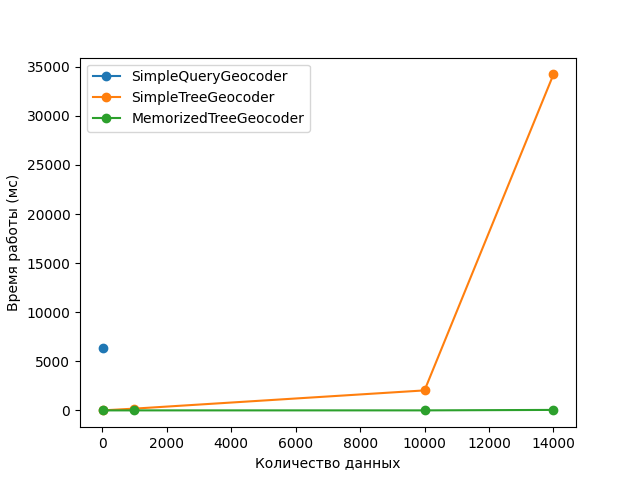
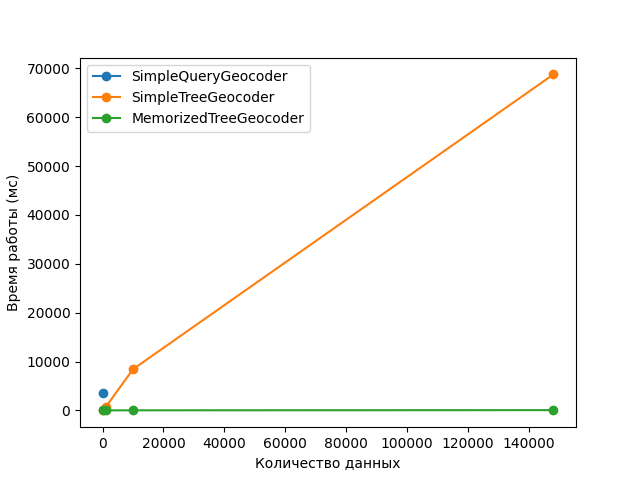
Исправлен отчет с учетом улучшенного алгоритма SimpleTreeGeocoder && старый отчет и алгоритм перенесены в depricated

diff --git a/depricated/geocoders/simple_tree_geocoder.py b/depricated/geocoders/simple_tree_geocoder.py
@@ -1,0 +1,39 @@
+from api import API, TreeNode
+from geocoders.geocoder import Geocoder
+
+
+class SimpleTreeGeocoder(Geocoder):
+    def __init__(self, samples: int | None = None, data: list[TreeNode] | None = None):
+        super().__init__(samples=samples)
+        if data is None:
+            self.__data = API.get_areas()
+        else:
+            self.__data = data
+
+    def _apply_geocoding(self, area_id: str) -> str:
+        result = None
+        for country in self.__data:
+            if result is None:
+                result = self.bfs(country, str(area_id))
+        return ", ".join([node.name for node in result][::-1])
+
+    # Перебор дерева в ширину
+    def bfs(self, tree, area_id: str) -> list[TreeNode] | None:
+        result = []
+
+        if tree.id == area_id:
+            result.append(tree)
+            return result
+
+        for child in tree.areas:
+            if child.id == area_id:
+                result.append(child)
+                result.append(tree)
+                return result
+            if len(child.areas) != 0:
+                return_res = self.bfs(child, area_id)
+                if return_res is not None:
+                    result.extend(return_res)
+                    result.append(tree)
+                    return result
+        return None

diff --git a/depricated/Отчет/Отчет.md b/depricated/Отчет/Отчет.md
@@ -2,90 +2,88 @@
 
 ### Полученные данные о производительности алгоритмов:
 #### 1 запуск
-| Алгоритм              | Количество данных | Время работы (мс) |
-|-----------------------|-------------------|-------------------|
-| SimpleQueryGeocoder   | 10                | 3980.00           |
-| SimpleTreeGeocoder    | 10                | 44.83             |
-| SimpleTreeGeocoder    | 1000              | 645.44            |
-| SimpleTreeGeocoder    | 10000             | 8980.00           |
-| SimpleTreeGeocoder    | 148000            | 61010.00          |
-| MemorizedTreeGeocoder | 10                | 22.36             |
-| MemorizedTreeGeocoder | 1000              | 17.51             |
-| MemorizedTreeGeocoder | 10000             | 20.71             |
-| MemorizedTreeGeocoder | 148000            | 48.68             |
-
+| #  | Алгоритм              | Количество данных | Время работы (мс) |
+|----|-----------------------|-------------------|-------------------|
+| 0  | SimpleQueryGeocoder   | 10                | 7500.00           |
+| 1  | SimpleTreeGeocoder    | 10                | 4.30              |
+| 2  | SimpleTreeGeocoder    | 1000              | 208.56            |
+| 3  | SimpleTreeGeocoder    | 10000             | 2150.00           |
+| 4  | SimpleTreeGeocoder    | 148000            | 32520.00          |
+| 5  | MemorizedTreeGeocoder | 10                | 4.00              |
+| 6  | MemorizedTreeGeocoder | 1000              | 2.99              |
+| 7  | MemorizedTreeGeocoder | 10000             | 6.56              |
+| 8  | MemorizedTreeGeocoder | 148000            | 52.45             |
 ![график_1.png](график_1.png)
 #### 2 запуск
-| Алгоритм              | Количество данных | Время работы (мс) |
-|-----------------------|-------------------|-------------------|
-| SimpleQueryGeocoder   | 10                | 3560.00           |
-| SimpleTreeGeocoder    | 10                | 17.00             |
-| SimpleTreeGeocoder    | 1000              | 657.72            |
-| SimpleTreeGeocoder    | 10000             | 8430.00           |
-| SimpleTreeGeocoder    | 148000            | 68740.00          |
-| MemorizedTreeGeocoder | 10                | 11.92             |
-| MemorizedTreeGeocoder | 1000              | 14.55             |
-| MemorizedTreeGeocoder | 10000             | 28.47             |
-| MemorizedTreeGeocoder | 148000            | 67.24             |
-
+| #  | Алгоритм              | Количество данных | Время работы (мс) |
+|----|-----------------------|-------------------|-------------------|
+| 0  | SimpleQueryGeocoder   | 10                | 6350.00           |
+| 1  | SimpleTreeGeocoder    | 10                | 4.97              |
+| 2  | SimpleTreeGeocoder    | 1000              | 184.62            |
+| 3  | SimpleTreeGeocoder    | 10000             | 2040.00           |
+| 4  | SimpleTreeGeocoder    | 148000            | 34220.00          |
+| 5  | MemorizedTreeGeocoder | 10                | 3.26              |
+| 6  | MemorizedTreeGeocoder | 1000              | 5.00              |
+| 7  | MemorizedTreeGeocoder | 10000             | 5.58              |
+| 8  | MemorizedTreeGeocoder | 148000            | 52.33             |
 ![график_2.png](график_2.png)
 #### 3 запуск
-| Алгоритм              | Количество данных | Время работы (мс) |
-|-----------------------|-------------------|-------------------|
-| SimpleQueryGeocoder   | 10                | 3420.00           |
-| SimpleTreeGeocoder    | 10                | 6.59              |
-| SimpleTreeGeocoder    | 1000              | 320.60            |
-| SimpleTreeGeocoder    | 10000             | 2730.00           |
-| SimpleTreeGeocoder    | 148000            | 41200.00          |
-| MemorizedTreeGeocoder | 10                | 6.52              |
-| MemorizedTreeGeocoder | 1000              | 6.72              |
-| MemorizedTreeGeocoder | 10000             | 8.00              |
-| MemorizedTreeGeocoder | 148000            | 79.78             |
+| #  | Алгоритм              | Количество данных | Время работы (мс) |
+|----|-----------------------|-------------------|-------------------|
+| 0  | SimpleQueryGeocoder   | 10                | 7520.00           |
+| 1  | SimpleTreeGeocoder    | 10                | 6.78              |
+| 2  | SimpleTreeGeocoder    | 1000              | 204.05            |
+| 3  | SimpleTreeGeocoder    | 10000             | 2230.00           |
+| 4  | SimpleTreeGeocoder    | 148000            | 32630.00          |
+| 5  | MemorizedTreeGeocoder | 10                | 2.99              |
+| 6  | MemorizedTreeGeocoder | 1000              | 4.59              |
+| 7  | MemorizedTreeGeocoder | 10000             | 5.80              |
+| 8  | MemorizedTreeGeocoder | 148000            | 41.74             |
 ![график_3.png](график_3.png)
 #### 4 запуск. Увеличенная выборка
-| Алгоритм              | Количество данных | Время работы (мс) |
-|-----------------------|-------------------|-------------------|
-| SimpleQueryGeocoder   | 10                | 3420.00           |
-| SimpleQueryGeocoder   | 25                | 11500.00          |
-| SimpleQueryGeocoder   | 50                | 14610.00          |
-| SimpleQueryGeocoder   | 70                | 19830.00          |
-| SimpleTreeGeocoder    | 10                | 5.24              |
-| SimpleTreeGeocoder    | 100               | 23.81             |
-| SimpleTreeGeocoder    | 1000              | 181.37            |
-| SimpleTreeGeocoder    | 2000              | 376.81            |
-| SimpleTreeGeocoder    | 4000              | 776.68            |
-| SimpleTreeGeocoder    | 5000              | 950.66            |
-| SimpleTreeGeocoder    | 6000              | 1180.00           |
-| SimpleTreeGeocoder    | 10000             | 2010.00           |
-| SimpleTreeGeocoder    | 14000             | 2810.00           |
-| SimpleTreeGeocoder    | 20000             | 3980.00           |
-| SimpleTreeGeocoder    | 50000             | 10390.00          |
-| SimpleTreeGeocoder    | 100000            | 21190.00          |
-| SimpleTreeGeocoder    | 140000            | 29920.00          |
-| MemorizedTreeGeocoder | 10                | 4.62              |
-| MemorizedTreeGeocoder | 100               | 5.00              |
-| MemorizedTreeGeocoder | 1000              | 3.51              |
-| MemorizedTreeGeocoder | 2000              | 5.11              |
-| MemorizedTreeGeocoder | 4000              | 4.56              |
-| MemorizedTreeGeocoder | 5000              | 6.05              |
-| MemorizedTreeGeocoder | 6000              | 5.56              |
-| MemorizedTreeGeocoder | 10000             | 5.78              |
-| MemorizedTreeGeocoder | 14000             | 11.30             |
-| MemorizedTreeGeocoder | 20000             | 8.68              |
-| MemorizedTreeGeocoder | 50000             | 16.86             |
-| MemorizedTreeGeocoder | 100000            | 31.69             |
-| MemorizedTreeGeocoder | 140000            | 44.33             |
+| #   | Алгоритм              | Количество данных | Время работы (мс) |
+|-----|-----------------------|-------------------|-------------------|
+| 0   | SimpleQueryGeocoder   | 10                | 6140.00           |
+| 1   | SimpleQueryGeocoder   | 25                | 18550.00          |
+| 2   | SimpleQueryGeocoder   | 50                | 38020.00          |
+| 3   | SimpleQueryGeocoder   | 70                | 51920.00          |
+| 4   | SimpleTreeGeocoder    | 10                | 5.07              |
+| 5   | SimpleTreeGeocoder    | 100               | 19.22             |
+| 6   | SimpleTreeGeocoder    | 1000              | 196.26            |
+| 7   | SimpleTreeGeocoder    | 2000              | 386.43            |
+| 8   | SimpleTreeGeocoder    | 4000              | 782.52            |
+| 9   | SimpleTreeGeocoder    | 5000              | 958.26            |
+| 10  | SimpleTreeGeocoder    | 6000              | 1170.00           |
+| 11  | SimpleTreeGeocoder    | 10000             | 2360.00           |
+| 12  | SimpleTreeGeocoder    | 14000             | 4000.00           |
+| 13  | SimpleTreeGeocoder    | 20000             | 4070.00           |
+| 14  | SimpleTreeGeocoder    | 50000             | 12720.00          |
+| 15  | SimpleTreeGeocoder    | 100000            | 23130.00          |
+| 16  | SimpleTreeGeocoder    | 140000            | 32890.00          |
+| 17  | MemorizedTreeGeocoder | 10                | 9.85              |
+| 18  | MemorizedTreeGeocoder | 100               | 6.73              |
+| 19  | MemorizedTreeGeocoder | 1000              | 5.72              |
+| 20  | MemorizedTreeGeocoder | 2000              | 4.51              |
+| 21  | MemorizedTreeGeocoder | 4000              | 4.89              |
+| 22  | MemorizedTreeGeocoder | 5000              | 5.90              |
+| 23  | MemorizedTreeGeocoder | 6000              | 4.85              |
+| 24  | MemorizedTreeGeocoder | 10000             | 7.43              |
+| 25  | MemorizedTreeGeocoder | 14000             | 6.81              |
+| 26  | MemorizedTreeGeocoder | 20000             | 8.78              |
+| 27  | MemorizedTreeGeocoder | 50000             | 17.26             |
+| 28  | MemorizedTreeGeocoder | 100000            | 31.58             |
+| 29  | MemorizedTreeGeocoder | 140000            | 52.51             |
 ![график_4.png](график_4.png)
 
 #### 5 запуск. Только SimpleQueryGeocoder
-| Алгоритм            | Количество данных | Время работы (мс) |
-|---------------------|-------------------|-------------------|
-| SimpleQueryGeocoder | 10                | 3050.0            |
-| SimpleQueryGeocoder | 25                | 7570.0            |
-| SimpleQueryGeocoder | 50                | 17000.0           |
-| SimpleQueryGeocoder | 70                | 20850.0           |
-| SimpleQueryGeocoder | 100               | 29760.0           |
-| SimpleQueryGeocoder | 150               | 45080.0           |
+| #  | Алгоритм             | Количество данных | Время работы (мс) |
+|----|----------------------|-------------------|-------------------|
+| 0  | SimpleQueryGeocoder  | 10                | 6560.0            |
+| 1  | SimpleQueryGeocoder  | 25                | 18240.0           |
+| 2  | SimpleQueryGeocoder  | 50                | 36480.0           |
+| 3  | SimpleQueryGeocoder  | 70                | 55680.0           |
+| 4  | SimpleQueryGeocoder  | 100               | 71510.0           |
+| 5  | SimpleQueryGeocoder  | 150               | 111940.0          |
 ![график_5.png](график_5.png)
 ### Анализ полученных данных
 
